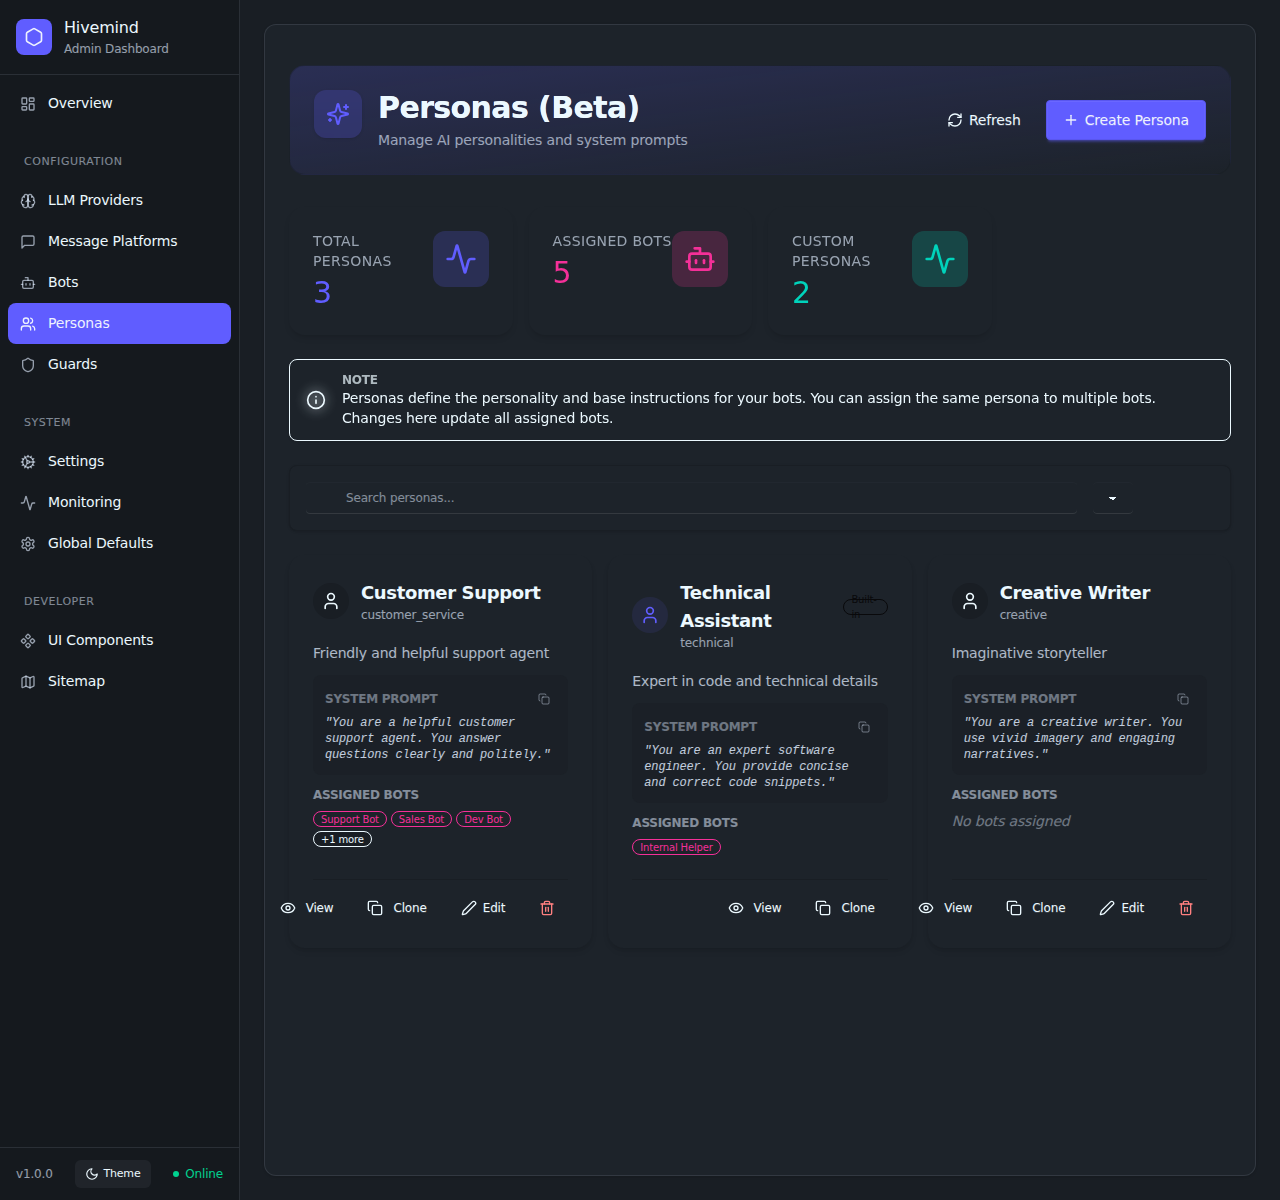
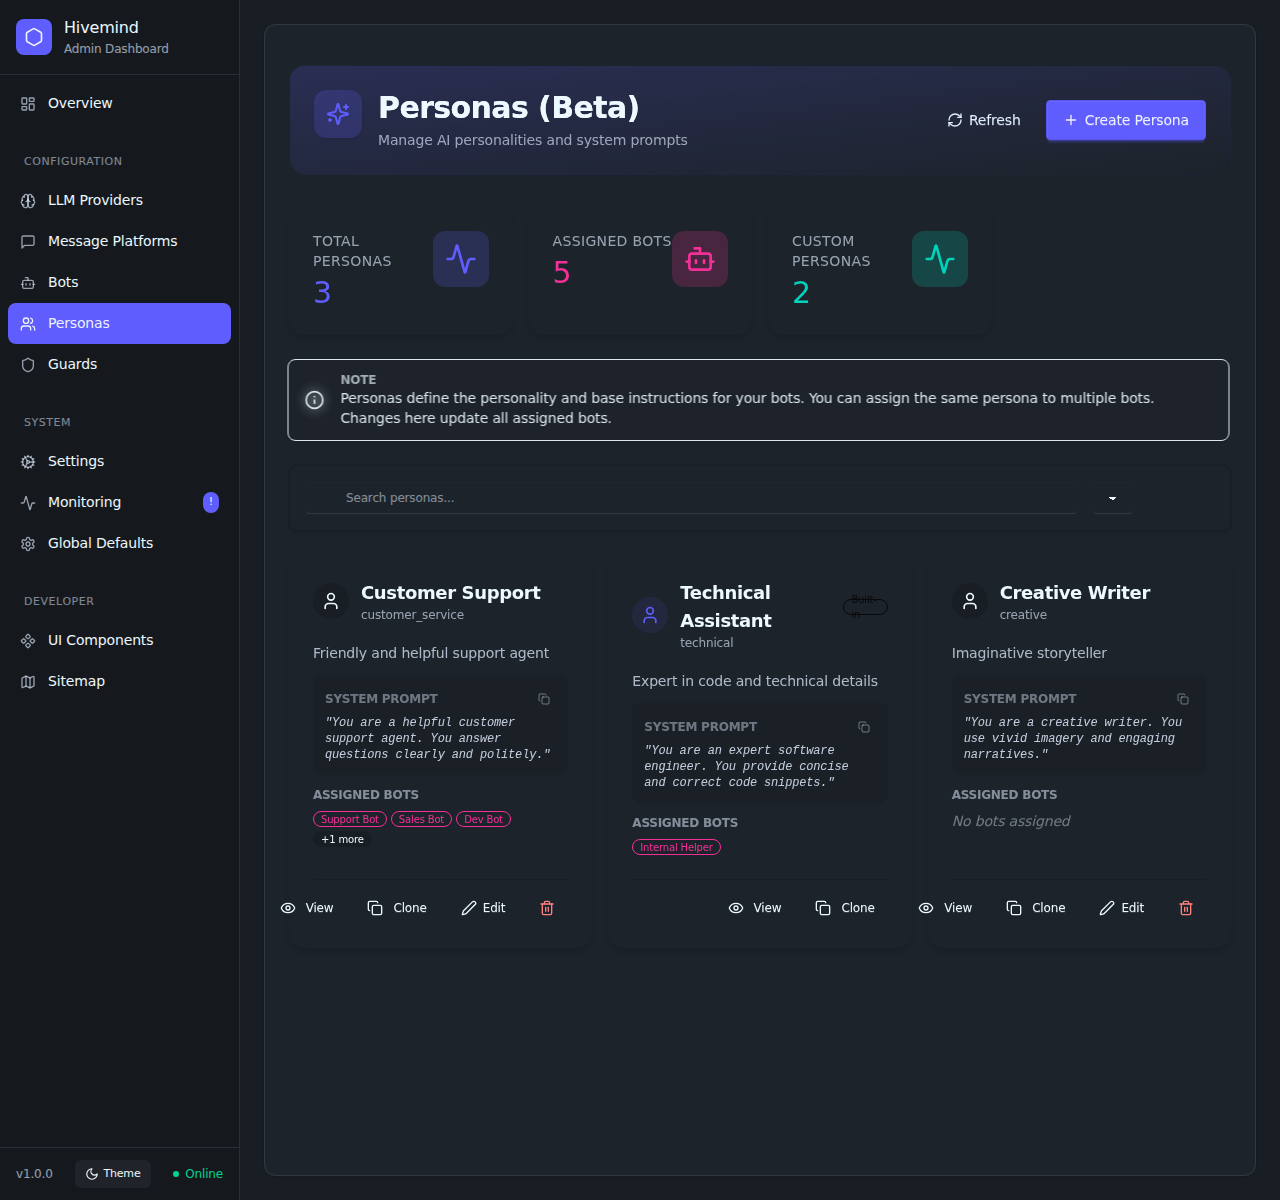
Refiner (PersonasPage Ghost Badge Variant Fix): Fix ghost badge outline rendering on PersonasPage (#943)
* fix: Add ghost variant to BadgeProps and fix PersonasPage outline bug

Added 'ghost' variant to Badge component types to prevent rendering issues and removed the incompatible style="outline" from the assigned bots count badge in PersonasPage.tsx.

* fix: Add ghost variant to BadgeProps and fix PersonasPage outline bug

Added 'ghost' variant to Badge component types to prevent rendering issues and removed the incompatible style="outline" from the assigned bots count badge in PersonasPage.tsx. Also added Netlify build ignore logic to prevent PR branch CI failures.

* chore: add JSDoc comment for ghost badge variant

- Document the 'ghost' variant with description
- Include usage example for low-priority status indicators

* a11y: restore accessibility attributes for toggle switches in AnomalyDetection

---------

diff --git a/src/client/src/ai/AnomalyDetection.tsx b/src/client/src/ai/AnomalyDetection.tsx
@@ -546,35 +546,12 @@ export const AnomalyDetection: React.FC<AnomalyDetectionProps> = ({ onAnomalyDet
     }));
   };
 
-
-  const toggleFeature = (feature: 'enabled') => {
+  const toggleFeature = (feature: keyof AnomalyConfig) => {
     setConfig(prev => ({
       ...prev,
       [feature]: !prev[feature],
     }));
   };
-
-  const toggleLearning = () => {
-    setConfig(prev => ({
-      ...prev,
-      learning: { ...prev.learning, enabled: !prev.learning.enabled }
-    }));
-  };
-
-  const toggleAutoResponse = () => {
-    setConfig(prev => ({
-      ...prev,
-      autoResponse: { ...prev.autoResponse, enabled: !prev.autoResponse.enabled }
-    }));
-  };
-
-  const toggleNotifications = () => {
-    setConfig(prev => ({
-      ...prev,
-      notifications: { ...prev.notifications, enabled: !prev.notifications.enabled }
-    }));
-  };
-
 
   const updateSensitivity = (e: React.ChangeEvent<HTMLInputElement>) => {
     setConfig(prev => ({
@@ -772,10 +749,10 @@ export const AnomalyDetection: React.FC<AnomalyDetectionProps> = ({ onAnomalyDet
                 id="anomaly-detection-toggle"
                 type="checkbox"
                 className="toggle toggle-primary toggle-sm"
-                checked={config.enabled}
-                onChange={() => toggleFeature('enabled')}
+                checked={config.anomalyDetection}
+                onChange={() => toggleFeature('anomalyDetection')}
                 aria-label="Toggle anomaly detection"
-                aria-pressed={config.enabled}
+                aria-pressed={config.anomalyDetection}
               />
               <span className="label-text">Anomaly Detection</span>
             </label>
@@ -785,7 +762,7 @@ export const AnomalyDetection: React.FC<AnomalyDetectionProps> = ({ onAnomalyDet
                 type="checkbox"
                 className="toggle toggle-primary toggle-sm"
                 checked={config.learning.enabled}
-                onChange={toggleLearning}
+                onChange={() => toggleFeature('learning')}
                 aria-label="Toggle ML learning"
                 aria-pressed={config.learning.enabled}
               />
@@ -797,7 +774,7 @@ export const AnomalyDetection: React.FC<AnomalyDetectionProps> = ({ onAnomalyDet
                 type="checkbox"
                 className="toggle toggle-primary toggle-sm"
                 checked={config.autoResponse.enabled}
-                onChange={toggleAutoResponse}
+                onChange={() => toggleFeature('autoResponse')}
                 aria-label="Toggle auto response"
                 aria-pressed={config.autoResponse.enabled}
               />
@@ -809,7 +786,7 @@ export const AnomalyDetection: React.FC<AnomalyDetectionProps> = ({ onAnomalyDet
                 type="checkbox"
                 className="toggle toggle-primary toggle-sm"
                 checked={config.notifications.enabled}
-                onChange={toggleNotifications}
+                onChange={() => toggleFeature('notifications')}
                 aria-label="Toggle notifications"
                 aria-pressed={config.notifications.enabled}
               />

diff --git a/src/client/src/components/DaisyUI/Badge.tsx b/src/client/src/components/DaisyUI/Badge.tsx
@@ -3,8 +3,12 @@ import React from 'react';
 export interface BadgeProps {
   /** The content to display inside the badge */
   children: React.ReactNode;
-  /** Color variant of the badge */
-  variant?: 'primary' | 'secondary' | 'success' | 'warning' | 'error' | 'neutral';
+  /**
+   * Color variant of the badge
+   * @default 'neutral'
+   * @example 'ghost' - Used for subtle, low-priority status indicators
+   */
+  variant?: 'primary' | 'secondary' | 'success' | 'warning' | 'error' | 'neutral' | 'ghost';
   /** Size of the badge */
   size?: 'small' | 'normal' | 'large';
   /** Style variant - solid or outline */

diff --git a/src/client/src/pages/PersonasPage.tsx b/src/client/src/pages/PersonasPage.tsx
@@ -430,7 +430,7 @@ const PersonasPage: React.FC = () => {
                       </Badge>
                     ))}
                     {persona.assignedBotNames.length > 3 && (
-                      <Badge variant="ghost" size="small" style="outline">
+                      <Badge variant="ghost" size="small">
                         +{persona.assignedBotNames.length - 3} more
                       </Badge>
                     )}
